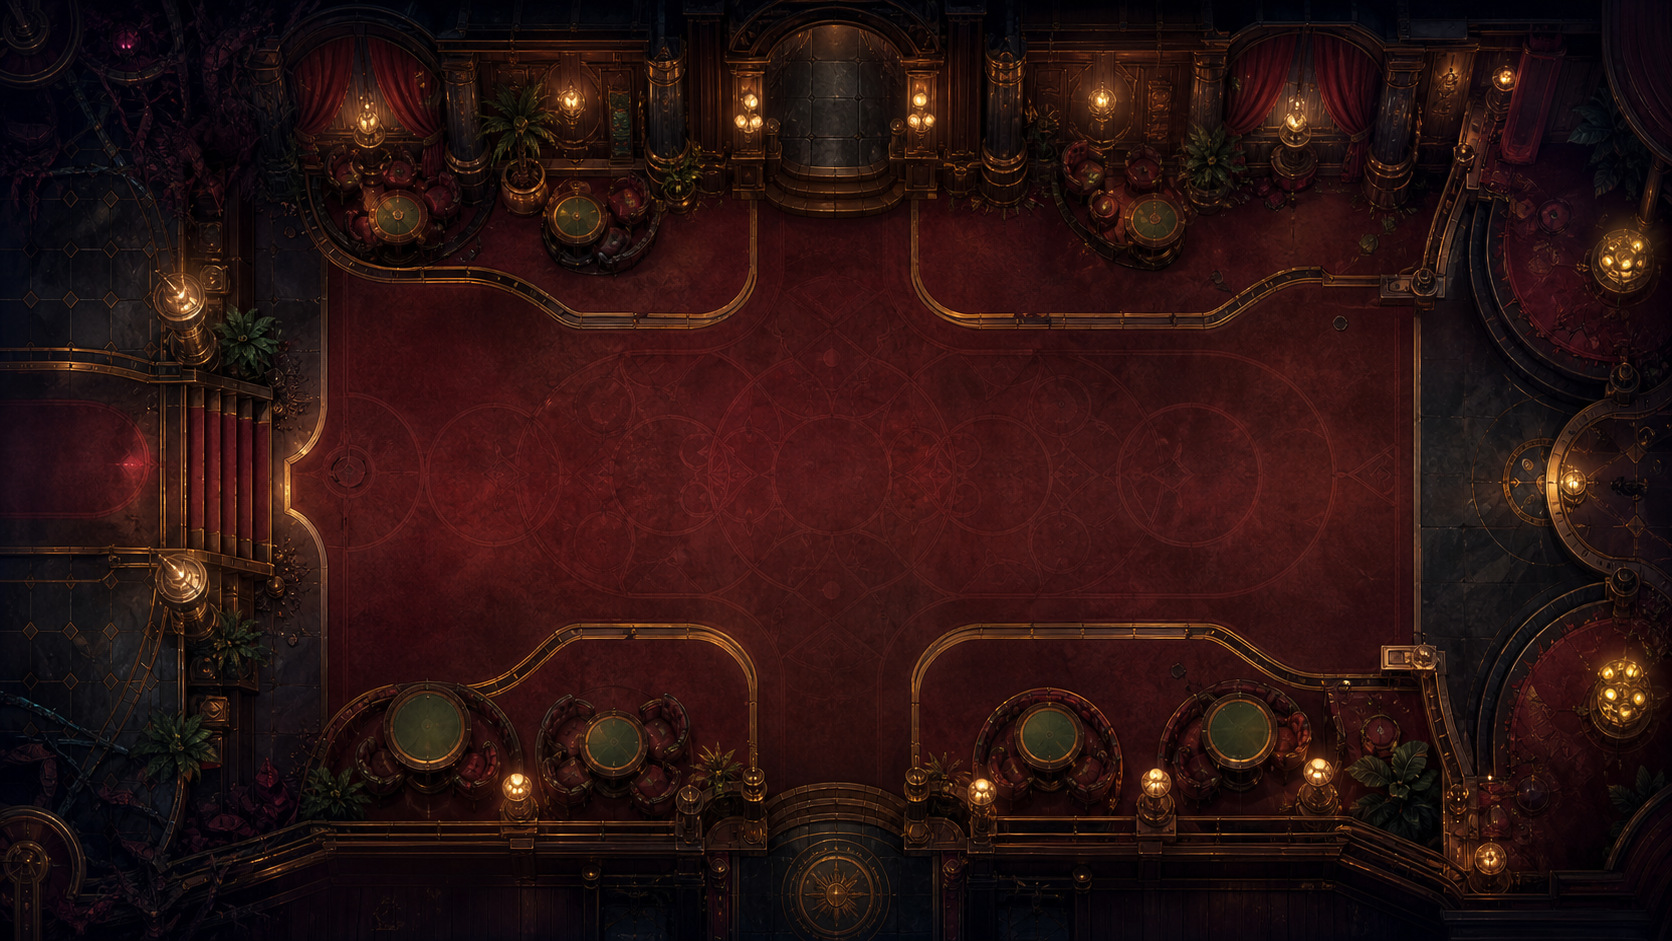
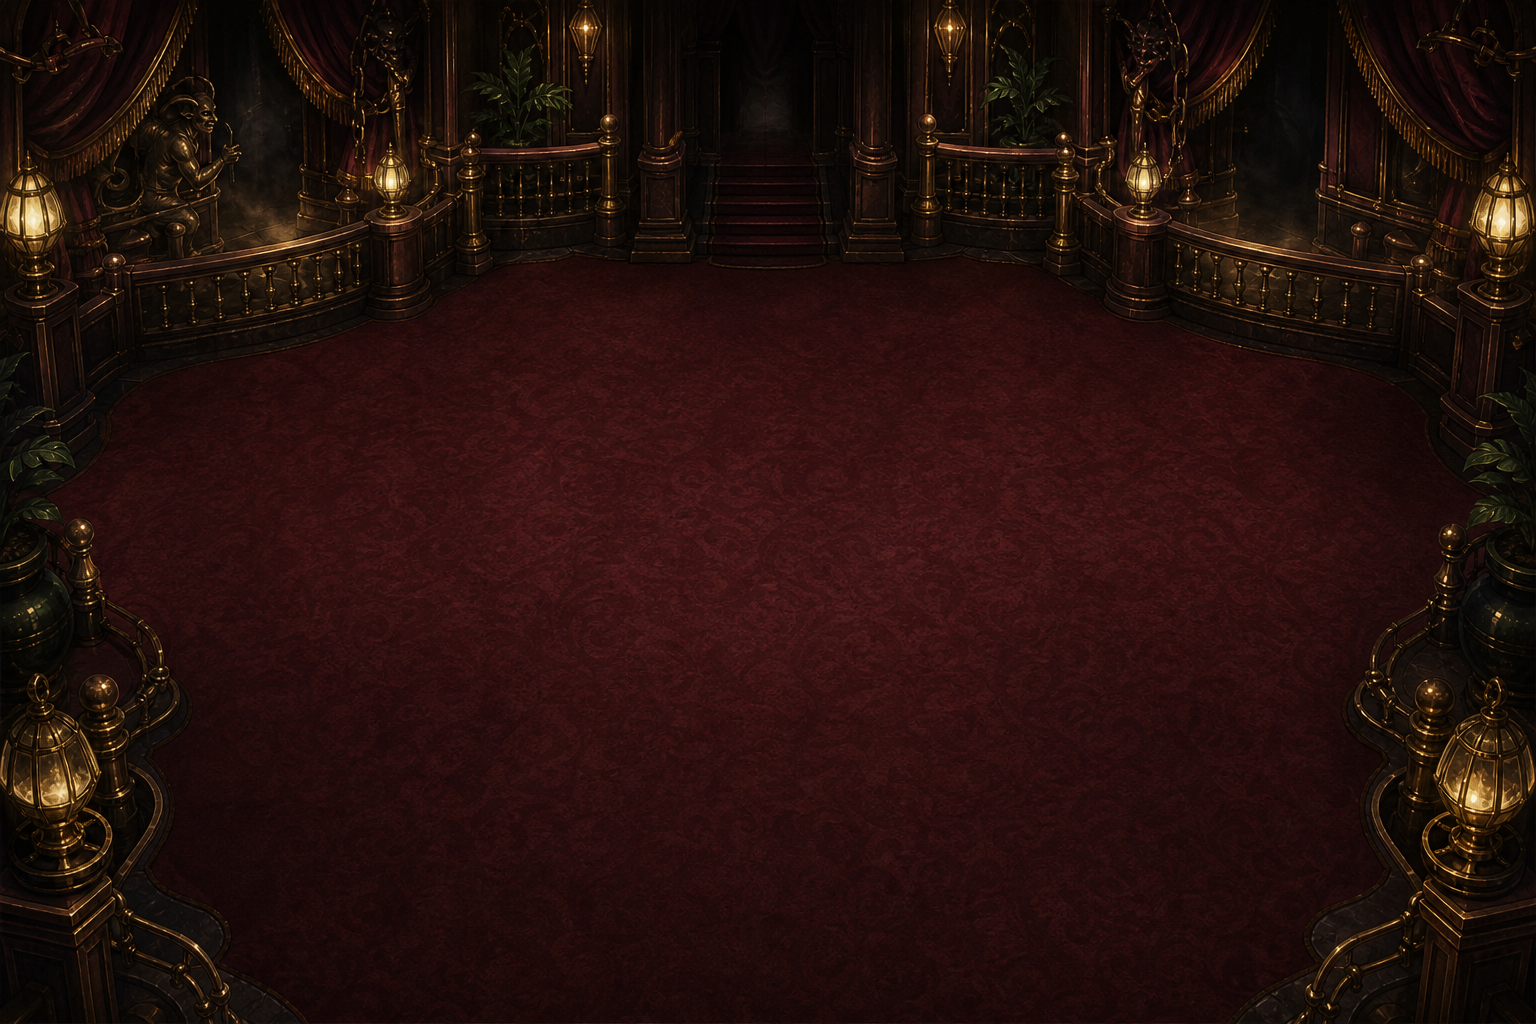
Replace floor one gameplay table art

diff --git a/src/app.js b/src/app.js
@@ -100,7 +100,6 @@ floorArtIds.forEach((id, index) => {
   tableSceneArtFiles[`floor${floor}:background`] = `art/tables/${id}/background.png`;
   tableSceneArtFiles[`floor${floor}:table`] = `art/tables/${id}/table.png`;
   tableSceneArtFiles[`floor${floor}:bossTable`] = `art/tables/${id}/boss_table.png`;
-  tableSceneArtFiles[`floor${floor}:bossPortrait`] = `art/tables/${id}/boss_portrait.png`;
   tableSceneArtFiles[`floor${floor}:decoration`] = `art/tables/${id}/decoration.png`;
 });
 
@@ -3033,27 +3032,28 @@ function drawTable() {
     ], true);
   });
   if (scene.background) {
-    drawRawAssetCover(scene.background, felt.x + 6, felt.y + 6, felt.w - 12, felt.h - 12, .44);
-    fill("rgba(5,4,8,.34)", felt.x, felt.y, felt.w, felt.h, 22);
+    drawRawAssetCover(scene.background, felt.x + 6, felt.y + 6, felt.w - 12, felt.h - 12, .9);
+    fill("rgba(5,4,8,.12)", felt.x, felt.y, felt.w, felt.h, 22);
   }
-  drawEncounterBossArt(felt, scene);
   strokeRound(felt.x, felt.y, felt.w, felt.h, 22, game.enemy.color || "#4f744f", 8);
   strokeRound(felt.x + 12, felt.y + 12, felt.w - 24, felt.h - 24, 16, "rgba(238,231,215,.08)", 1);
   strokeRound(felt.x + 20, felt.y + 20, felt.w - 40, felt.h - 40, 13, "rgba(220,180,70,.08)", 1);
-  ctx.save();
-  ctx.globalAlpha = .11;
-  ctx.strokeStyle = "#eee7d7";
-  ctx.lineWidth = 1;
-  for (let y = felt.y + 82; y < felt.y + felt.h - 30; y += 62) {
-    ctx.beginPath();
-    ctx.moveTo(felt.x + 34, y);
-    ctx.lineTo(felt.x + felt.w - 34, y + 16);
-    ctx.stroke();
-  }
-  ctx.restore();
-  if (isHanddrawnArt() && handAssetReady("texture")) {
-    for (let i = 0; i < 3; i++) {
-      drawHandAsset("texture", felt.x + 58 + i * 34, felt.y + 120 + i * 145, Math.min(520, felt.w - 116), 120, "rgba(238,231,215,.12)", .32);
+  if (!scene.table) {
+    ctx.save();
+    ctx.globalAlpha = .11;
+    ctx.strokeStyle = "#eee7d7";
+    ctx.lineWidth = 1;
+    for (let y = felt.y + 82; y < felt.y + felt.h - 30; y += 62) {
+      ctx.beginPath();
+      ctx.moveTo(felt.x + 34, y);
+      ctx.lineTo(felt.x + felt.w - 34, y + 16);
+      ctx.stroke();
+    }
+    ctx.restore();
+    if (isHanddrawnArt() && handAssetReady("texture")) {
+      for (let i = 0; i < 3; i++) {
+        drawHandAsset("texture", felt.x + 58 + i * 34, felt.y + 120 + i * 145, Math.min(520, felt.w - 116), 120, "rgba(238,231,215,.12)", .32);
+      }
     }
   }
   ctx.save();
@@ -3080,7 +3080,6 @@ function tableSceneAssets() {
     boss,
     background: tableSceneAsset(`${floorKey}:background`),
     table: tableSceneAsset(`${floorKey}:${boss ? "bossTable" : "table"}`),
-    bossPortrait: boss ? tableSceneAsset(`${floorKey}:bossPortrait`) : "",
     decoration: tableSceneAsset(`${floorKey}:decoration`)
   };
 }
@@ -3090,31 +3089,16 @@ function tableSceneAsset(key) {
   return handAssetReady(assetKey) ? assetKey : "";
 }
 
-function drawEncounterBossArt(felt, scene) {
-  if (!scene.bossPortrait) return;
-  const portrait = viewport.portrait;
-  const h = portrait ? 230 : 260;
-  const w = h;
-  const x = felt.x + felt.w / 2 - w / 2;
-  const y = felt.y + (portrait ? 14 : 0);
-  const glow = game.enemy?.color || C.gold;
-  ctx.save();
-  ctx.globalAlpha = .18;
-  shadow(0, 0, 32, glow, () => fill(glow, x + w * .18, y + h * .08, w * .64, h * .78, w * .32));
-  ctx.restore();
-  drawRawAssetContain(scene.bossPortrait, x, y, w, h, .9);
-}
-
 function drawEncounterTableArt(felt, scene) {
   if (!scene.table) return;
   const portrait = viewport.portrait;
-  const targetW = Math.min(felt.w * (portrait ? .92 : .74), portrait ? 650 : 760);
-  const targetH = portrait ? 300 : 320;
+  const targetW = Math.min(felt.w * (portrait ? .96 : .9), portrait ? 700 : 1260);
+  const targetH = portrait ? 390 : 520;
   const x = felt.x + felt.w / 2 - targetW / 2;
-  const y = felt.y + (portrait ? 118 : 120);
-  drawRawAssetContain(scene.table, x, y, targetW, targetH, scene.boss ? .86 : .72);
+  const y = felt.y + (portrait ? 96 : 86);
+  drawRawAssetContain(scene.table, x, y, targetW, targetH, scene.boss ? .98 : .94);
   if (scene.decoration) {
-    drawRawAssetContain(scene.decoration, felt.x + 32, felt.y + felt.h - 230, portrait ? 170 : 190, portrait ? 170 : 190, .55);
+    drawRawAssetContain(scene.decoration, felt.x + 32, felt.y + felt.h - 230, portrait ? 170 : 190, portrait ? 170 : 190, .35);
   }
 }
 

diff --git a/index.html b/index.html
@@ -52,6 +52,6 @@
       </section>
     </main>
     <script src="https://cdn.jsdelivr.net/npm/@supabase/supabase-js@2" onerror="this.onerror=null;this.src='https://unpkg.com/@supabase/supabase-js@2'"></script>
-    <script type="module" src="./src/app.js?v=20260710-expanded-developer-scenarios"></script>
+    <script type="module" src="./src/app.js?v=20260711-gameplay-table-art-v2"></script>
   </body>
 </html>

diff --git a/assets/art/tables/README.md b/assets/art/tables/README.md
@@ -2,12 +2,14 @@
 
 These assets are used after a player enters a table and starts playing blackjack.
 
-Each floor folder supports:
+Each floor folder supports three primary gameplay assets:
 
 - `background.png` — optional scene/background behind the blackjack felt.
 - `table.png` — normal table art drawn under the cards.
-- `boss_table.png` — boss table art drawn under the cards for boss encounters.
-- `boss_portrait.png` — boss/dealer portrait drawn behind the dealer area for boss encounters.
-- `decoration.png` — optional prop art layered into the scene.
+- `boss_table.png` — boss table art drawn under the cards for boss encounters; include the boss in this image if they should be visible while playing.
+
+Optional:
+
+- `decoration.png` — prop art layered into the scene.
 
 The game falls back to canvas-drawn felt when an asset is missing, so floors can be upgraded one at a time.

diff --git a/assets/README.md b/assets/README.md
@@ -50,12 +50,14 @@ The game tries floor-specific art first, shared fallback art second, and procedu
 
 Use `art/tables/` for visuals shown after sitting at a table.
 
-Each floor table folder can contain:
+Each floor table folder should contain:
 
 - `background.png`
 - `table.png`
 - `boss_table.png`
-- `boss_portrait.png`
+
+Optional:
+
 - `decoration.png`
 
 Floor 1 already includes generated starter table assets in `art/tables/floor_01_lobby_tables/`.